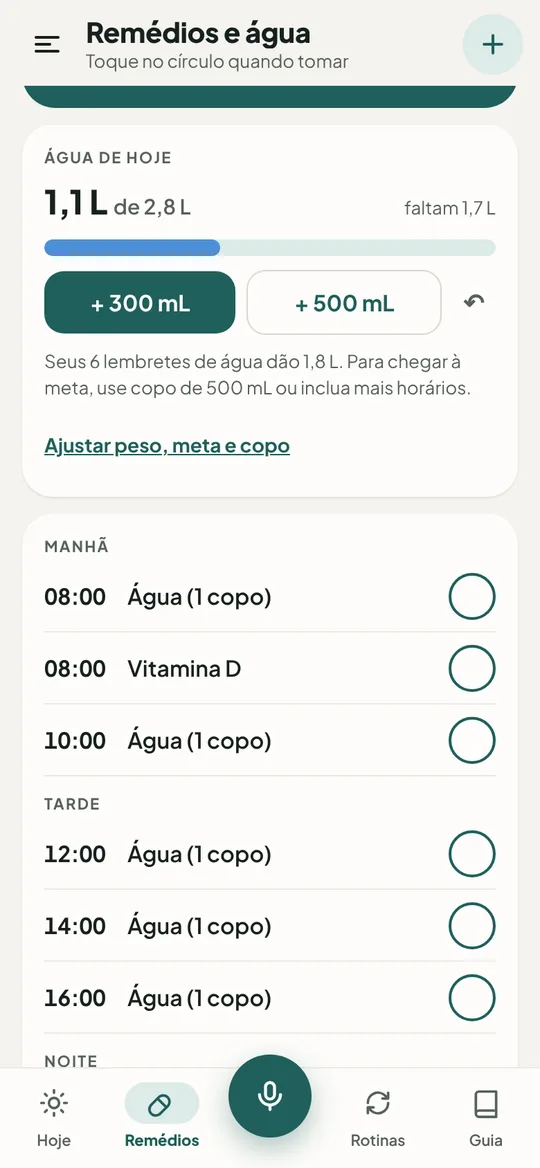
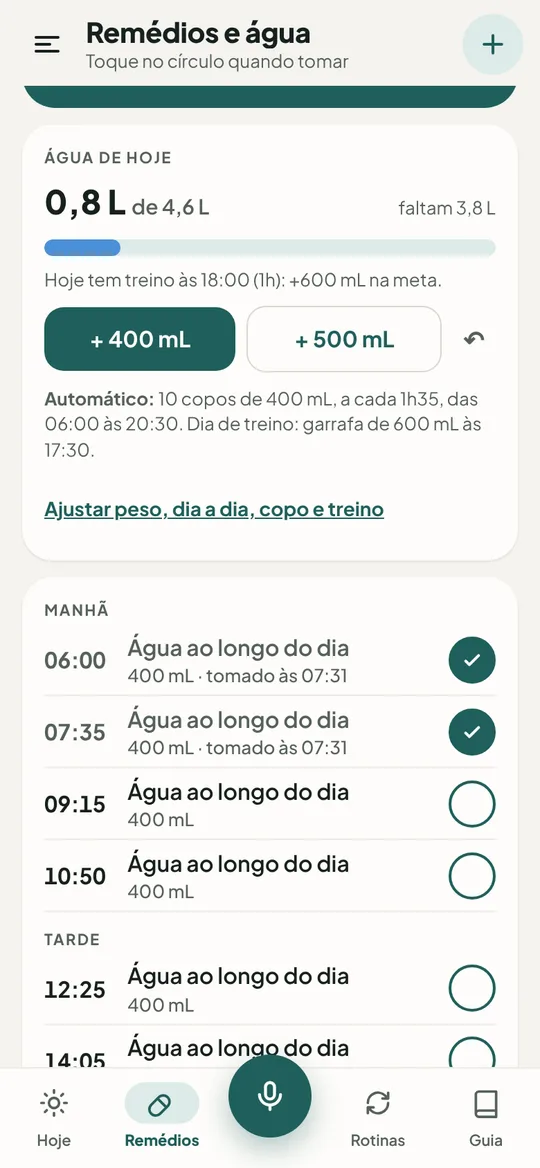
Tutorial: água automática pela meta e garrafa do treino
Claude-Session: https://claude.ai/code/session_01Rs3GPLpWNhTN5yiAapCfrm

diff --git a/como-usar/index.html b/como-usar/index.html
@@ -143,12 +143,12 @@ const L = [
     'Se não marcar, ele avisa de novo 30 minutos depois.',
     'O próximo fica fixo na barra de notificações até você marcar.'],
     'Com a agenda conectada, ele avisa para levar o remédio quando você vai estar fora no horário.'],
-  ['agua', 'Remédios e avisos', 'Meta de água', 'agua', 'Quanto beber, em mL.', [
-    'Em <b>Remédios</b>, o card <b>Água de hoje</b> pede seu peso e calcula a meta: 35 mL por kg.',
-    'Cada lembrete de água marcado soma um copo. Bebeu fora do horário? <b>+ copo</b> ou <b>+ 500 mL</b>.',
-    'Em <b>Ajustar peso, meta e copo</b>, escolha o tamanho do seu copo ou ponha uma meta sua.',
-    'Bateu a meta: confete e +10 pontos. O total aparece também no Meu dia.'],
-    'A conta vale para adultos. Calor e treino pedem mais; quem tem doença nos rins ou no coração segue o médico.'],
+  ['agua', 'Remédios e avisos', 'Meta de água', 'agua', 'Quanto beber e quando, em mL.', [
+    'Em <b>Remédios</b>, no card <b>Água de hoje</b>, diga seu peso e se passa o dia sentado ou ativo. A meta sai sozinha: 30 ou 35 mL por kg.',
+    'Toque em <b>Distribuir pela meta</b>: o app espalha copos iguais da hora de acordar até antes da higiene do sono, perto de um a cada 1h30.',
+    'Ligue <b>Vou à academia</b> e escolha dias, horário e duração. No dia de treino a meta sobe e chega o aviso da <b>Garrafa do treino</b> 30 min antes.',
+    'Marque cada copo no círculo. Bebeu fora do horário? <b>+ copo</b> ou <b>+ 500 mL</b>. Bateu a meta: confete e +10 pontos.'],
+    'Treino na agenda do celular com “academia” ou “treino” no nome? O app usa esse horário. Quem tem doença nos rins ou no coração segue o médico.'],
   ['silencioso', 'Remédios e avisos', 'Tocar mesmo no silencioso', 'silencioso', 'Para quem vive com o celular no vibrar.', [
     'Menu ☰ › Ajustes › <b>Tocar no silencioso</b>.',
     'Ligue o que deve tocar: remédios e água; tarefas, lembretes e rotinas; fim do foco.',
@@ -243,7 +243,7 @@ const ALT = {
   matriz: 'Matriz de prioridades com as caixas Faz hoje, Agenda, Rápido ou repassa e Solta',
   'nova-tarefa-ia': 'Tarefa Declarar o imposto de renda fatiada pela IA em 6 passos com minutos',
   remedios: 'Tela Remédios e água com 2 de 8 marcados e a lista por manhã, tarde e noite',
-  agua: 'Remédios, card Água de hoje com 1,1 L de 2,8 L, barra de progresso e os botões mais 300 mL e mais 500 mL',
+  agua: 'Remédios, card Água de hoje com 0,8 L de 4,6 L, aviso de treino às 18:00, plano automático de 10 copos de 400 mL a cada 1h35 e a lista de copos com os mL',
   dormir: 'Ajustes, Horário de dormir das 21:00 às 06:30, chave ligada e aviso de que a Melatonina das 22:30 vai aparecer sem tocar',
   silencioso: 'Ajustes, card Tocar no silencioso com remédios e lembretes ligados e os botões de teste',
   foco: 'Bloco de foco com 24:58 restantes e o passo atual da tarefa',
